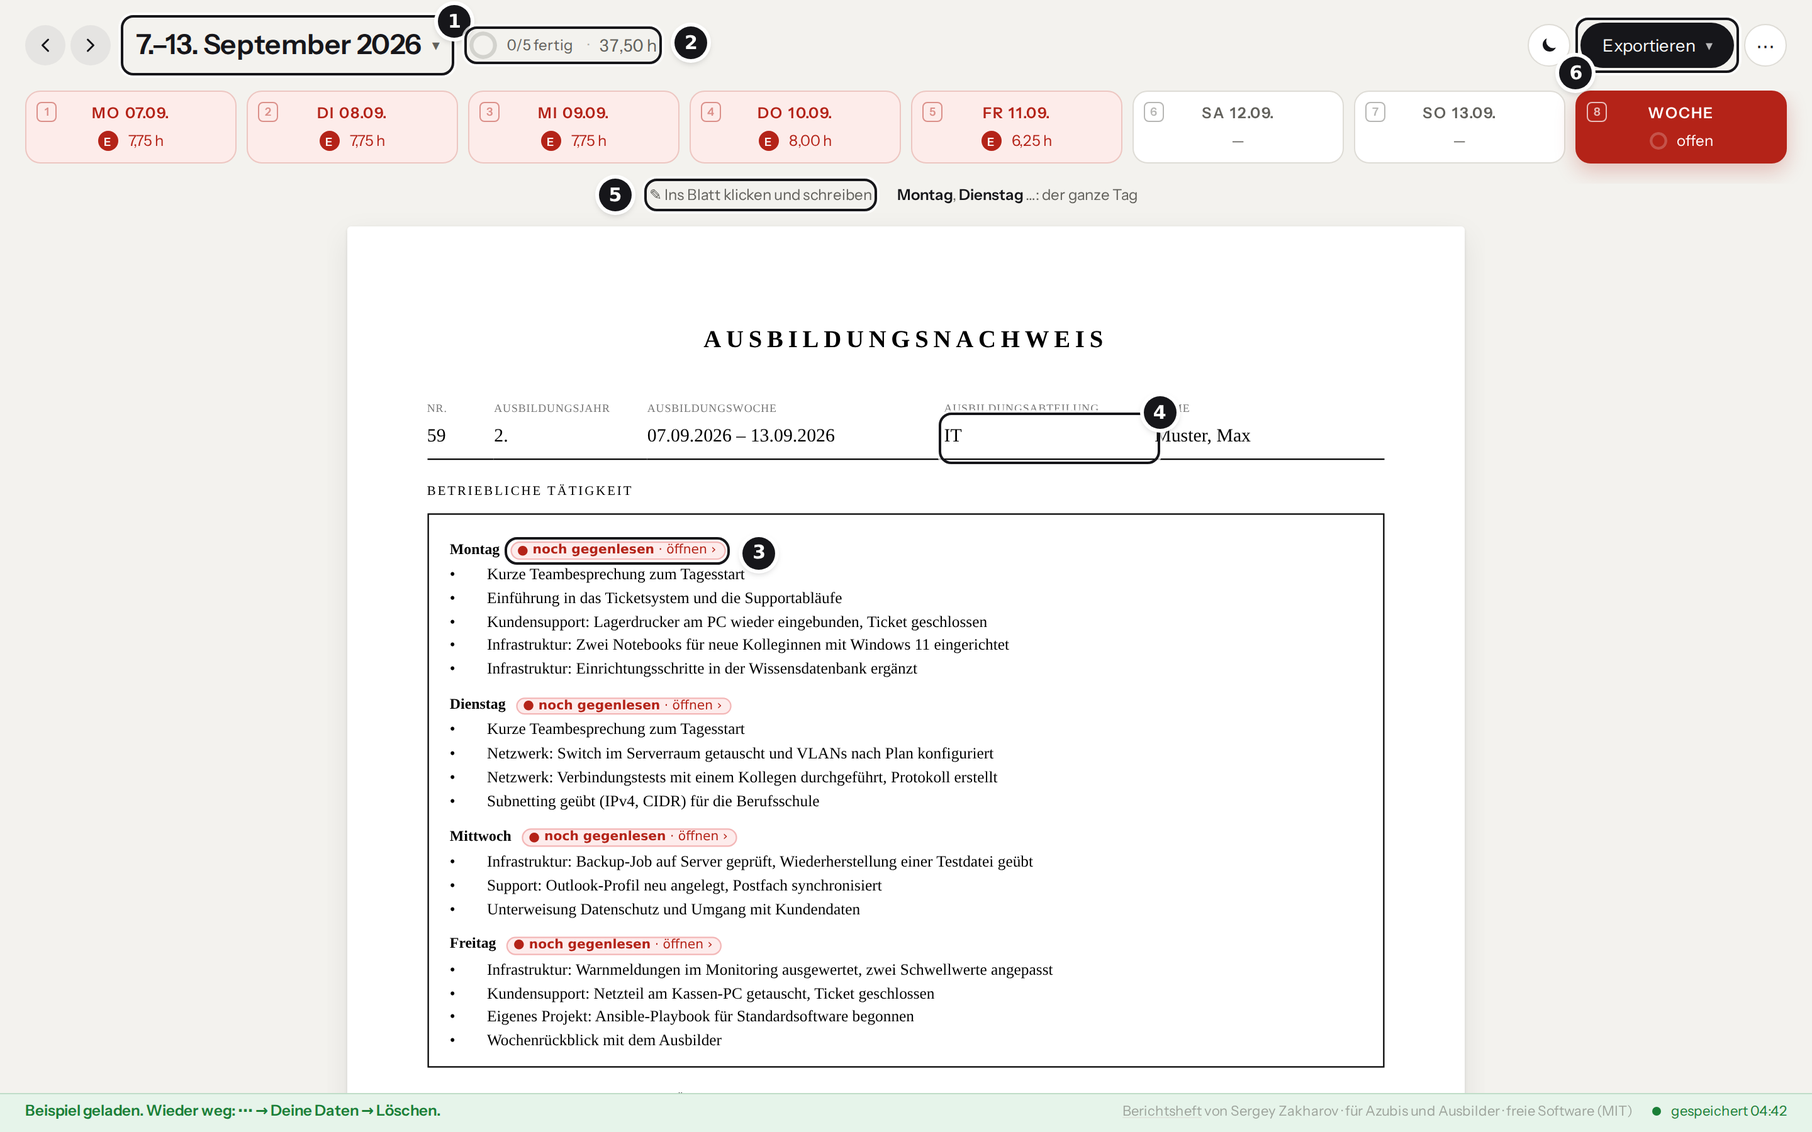
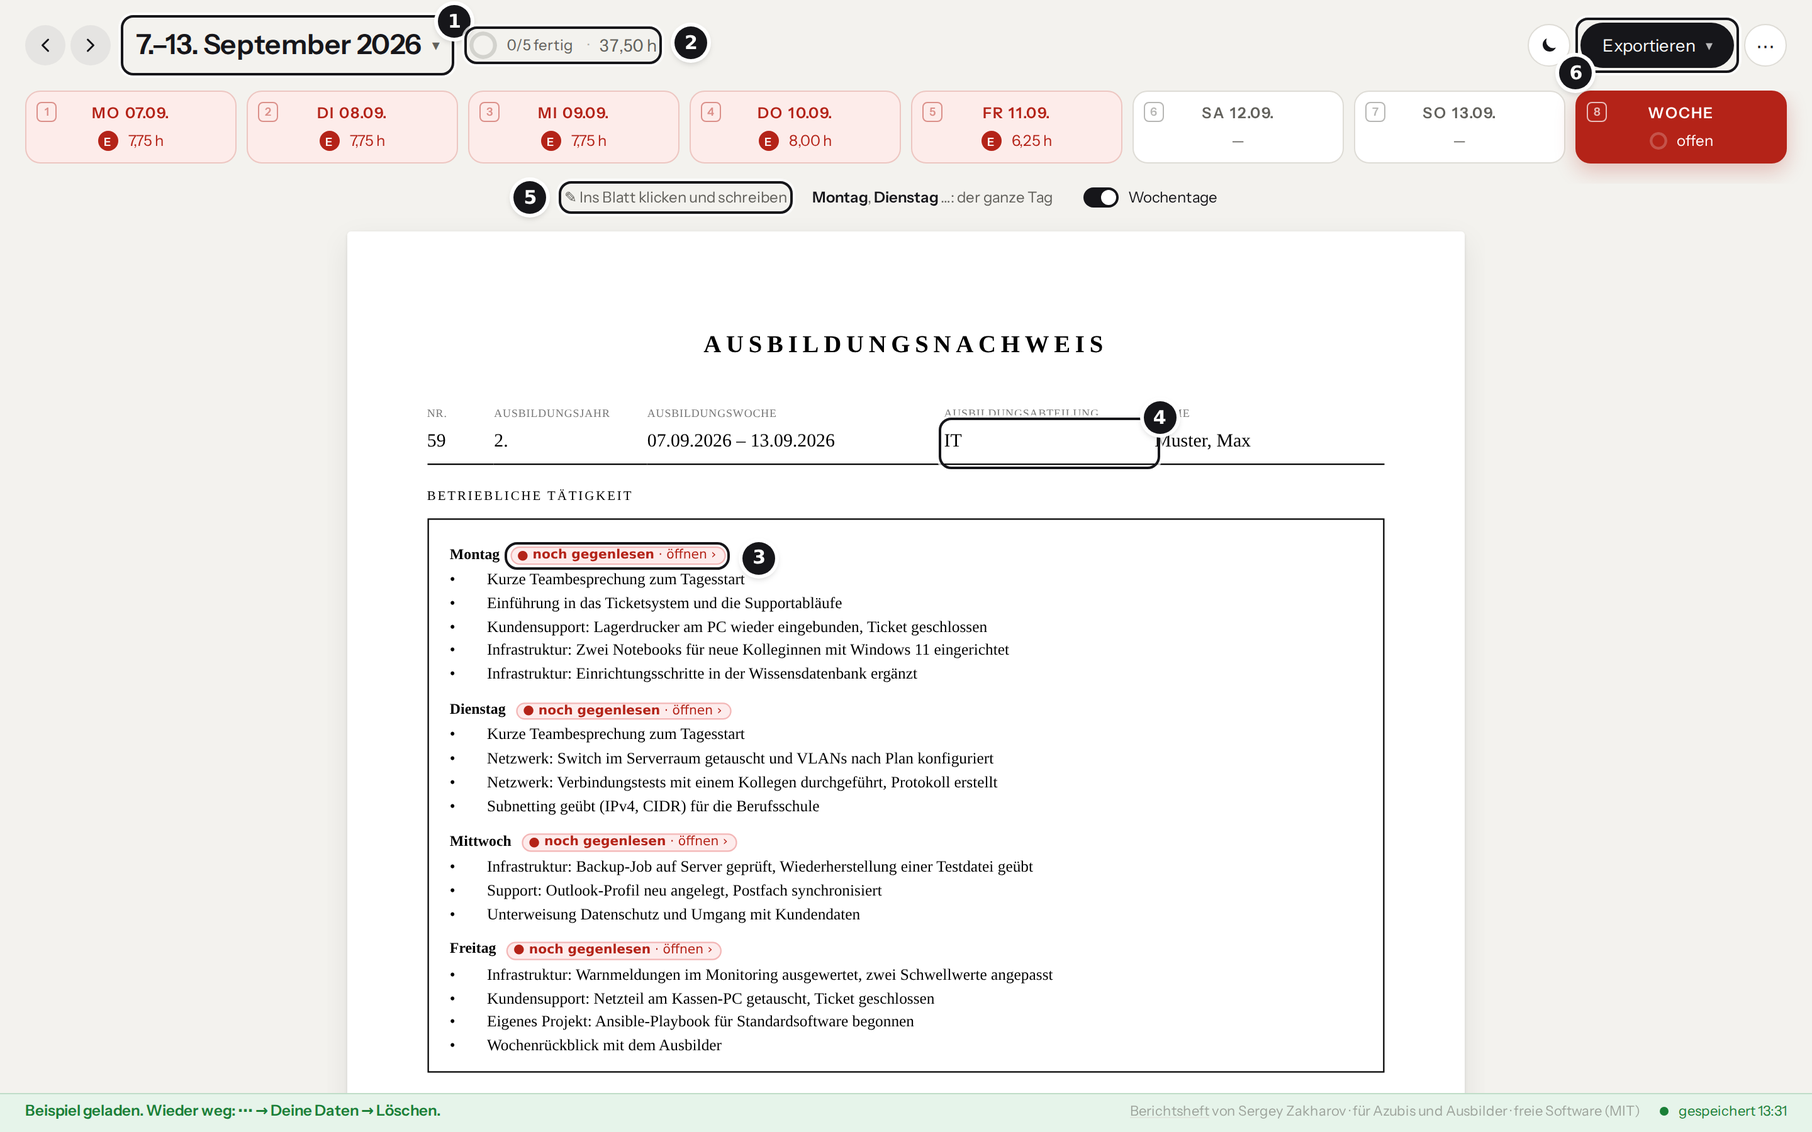
Woche: Schalter „Wochentage“ am Blatt statt dritter Vordruck
Ohne Wochentage stand als dritter Eintrag in der Auswahl des Vordrucks unter „Deine Daten“,
neben „Täglich“, einem ganz anderen IHK-Vordruck, und wurde verwechselt. Jetzt sitzt ein Schalter
„Wochentage“ über dem Blatt im Reiter „Woche“, wo man die Wirkung sieht; die Auswahl hat wieder
nur wöchentlich und täglich. Gespeichert in stamm.ohneTage ("ja"). Ein Stand mit
vordruck "ohnetage" wird beim Laden wöchentlich mit ausgeschaltetem Schalter. Beim täglichen
Vordruck gibt es keinen Schalter.

diff --git a/test/ohnetage.js b/test/ohnetage.js
@@ -1,7 +1,8 @@
 #!/usr/bin/env node
 /**
- * Vordruck „wöchentlich, nur die Tätigkeiten“: dasselbe Wochenblatt ohne Überschrift je Tag, wie
- * es manche Ausbilder wollen (ohneTage() in src/js/ausgabe/word.js).
+ * Wochenblatt ohne Wochentage: dasselbe Blatt ohne Überschrift je Tag, nur die Tätigkeiten
+ * untereinander, wie es manche Ausbilder wollen (ohneTage() in src/js/ausgabe/word.js). Geschaltet
+ * über dem Blatt im Reiter „Woche“; die Auswahl des Vordrucks bleibt bei wöchentlich und täglich.
  *
  * Gleiche Zeilen stehen nur einmal, freie Tage als eine Zeile am Ende, die Berufsschule ohne
  * Wochentag. Geschrieben wird weiter je Tag, auch im Blatt. Geprüft am Beispiel, Mittwoch als
@@ -11,7 +12,7 @@
  */
 const h = require('./hilfen');
 
-const { pruefe, abschluss } = h.protokoll('Vordruck ohne Wochentage: nur die Tätigkeiten der Woche');
+const { pruefe, abschluss } = h.protokoll('Wochenblatt ohne Wochentage: nur die Tätigkeiten der Woche');
 
 const TAGE = /Montag|Dienstag|Donnerstag|Freitag/;
 
@@ -41,13 +42,18 @@ const TAGE = /Montag|Dienstag|Donnerstag|Freitag/;
   const vorher = await blatt();
   pruefe('Vorgabe: Wochentage als Überschrift', vorher.koepfe >= 4 && vorher.betrieb.some((p) => p.text.startsWith('Montag')),
     vorher.koepfe + ' Köpfe');
-  await h.stammdatenOeffnen(page);
-  await h.stammReiter(page, '#f-vordruck');
-  pruefe('„Deine Daten“ bietet die Wahl ohne Wochentage an',
-    (await page.locator('#f-vordruck option[value="ohnetage"]').textContent()).includes('ohne Wochentage'));
-  await page.selectOption('#f-vordruck', 'ohnetage');
-  await page.click('#dlg-fertig');
+  const optionen = await page.$$eval('#f-vordruck option', (o) => o.map((x) => x.value));
+  pruefe('Der Vordruck bleibt wöchentlich oder täglich, ohne dritte Wahl', JSON.stringify(optionen) === '["","taeglich"]',
+    JSON.stringify(optionen));
+  const schalter = page.locator('.tageschalter');
+  pruefe('Über dem Blatt steht der Schalter „Wochentage“, an',
+    (await schalter.isVisible()) && (await schalter.textContent()).includes('Wochentage') &&
+      (await schalter.getAttribute('role')) === 'switch' && (await schalter.getAttribute('aria-checked')) === 'true');
+  await schalter.click();
   await page.waitForTimeout(900);
+  pruefe('Ein Klick schaltet ihn aus und merkt es sich',
+    (await page.getAttribute('.tageschalter', 'aria-checked')) === 'false' &&
+      (await page.evaluate((k) => { window.__merkenJetzt(); return JSON.parse(localStorage.getItem(k)).stamm.ohneTage; }, h.SPEICHER)) === 'ja');
 
   const b = await blatt();
   const texte = b.betrieb.map((p) => p.text);
@@ -125,15 +131,39 @@ const TAGE = /Montag|Dienstag|Donnerstag|Freitag/;
   await page.waitForTimeout(900);
   await zurWoche();
   await page.waitForTimeout(900);
-  pruefe('Nach dem Neuladen bleibt die Wahl', (await blatt()).koepfe === 0);
-  await h.stammdatenOeffnen(page);
-  await h.stammReiter(page, '#f-vordruck');
-  await page.selectOption('#f-vordruck', '');
-  await page.click('#dlg-fertig');
+  pruefe('Nach dem Neuladen bleibt die Wahl', (await blatt()).koepfe === 0 &&
+    (await page.getAttribute('.tageschalter', 'aria-checked')) === 'false');
+  await page.click('.tageschalter');
   await page.waitForTimeout(900);
   const zurueck = await blatt();
-  pruefe('Zurück: wieder mit Wochentagen', zurueck.koepfe >= 3 && zurueck.betrieb.some((p) => p.text.startsWith('Montag')),
-    zurueck.koepfe + ' Köpfe');
+  pruefe('Wieder an: wieder mit Wochentagen', zurueck.koepfe >= 3 && zurueck.betrieb.some((p) => p.text.startsWith('Montag')) &&
+    (await page.getAttribute('.tageschalter', 'aria-checked')) === 'true', zurueck.koepfe + ' Köpfe');
+
+  // Für kurze Zeit stand „ohne Wochentage“ als dritter Vordruck in der Auswahl. Wer es so
+  // gespeichert hat, behält es: als wöchentlichen Vordruck mit ausgeschaltetem Schalter.
+  await page.evaluate((k) => {
+    window.__merkenJetzt();
+    const st = JSON.parse(localStorage.getItem(k));
+    st.stamm.vordruck = 'ohnetage'; st.stamm.ohneTage = '';
+    localStorage.setItem(k, JSON.stringify(st));
+  }, h.SPEICHER);
+  await page.reload();
+  await page.waitForTimeout(900);
+  await zurWoche();
+  await page.waitForTimeout(900);
+  pruefe('Ein alter Stand mit „ohnetage“ wird wöchentlich ohne Wochentage',
+    (await page.inputValue('#f-vordruck')) === '' && (await blatt()).koepfe === 0 &&
+      (await page.getAttribute('.tageschalter', 'aria-checked')) === 'false');
+
+  // Beim täglichen Vordruck gibt es keine Wochentage zum Weglassen, also auch keinen Schalter.
+  await h.stammdatenOeffnen(page);
+  await h.stammReiter(page, '#f-vordruck');
+  await page.selectOption('#f-vordruck', 'taeglich');
+  await page.click('#dlg-fertig');
+  await page.waitForTimeout(900);
+  pruefe('Täglicher Vordruck: kein Schalter, das Tagesblatt wie immer',
+    !(await page.locator('.tageschalter').count()) &&
+      (await page.evaluate(() => !!document.querySelector('.vorschaubuehne .tagestabelle'))));
 
   pruefe('Keine JavaScript-Fehler', jsFehler.length === 0, jsFehler.join(' | '));
   await browser.close();

diff --git a/src/css/tag.css b/src/css/tag.css
@@ -230,6 +230,26 @@ body.ohnewoche .leerbild { margin: var(--luft-2) var(--luft-5); }
 .blattfehlt::before { content: "● "; }
 .blattfehlt:hover { background: var(--acht); border-color: var(--acht); color: #fff; }
 .blattzeile .textfuss { padding: 0; border: 0; gap: var(--luft-3); }
+/* Wochentage im Blatt an oder aus (tageSchalterBauen()): ein kleiner Schalter, an = dunkel. */
+.tageschalter {
+  display: inline-flex; align-items: center; gap: var(--luft-2); padding: 2px var(--luft-1);
+  border: 0; border-radius: var(--rund-klein); background: none; cursor: pointer;
+  font: inherit; font-size: var(--schrift-klein); color: var(--schiefer);
+}
+.tageschalter .knips {
+  position: relative; flex: none; width: 28px; height: 16px; border-radius: var(--rund-voll);
+  background: var(--linie-fest); transition: background-color .15s;
+}
+.tageschalter .knips::after {
+  content: ""; position: absolute; top: 2px; left: 2px; width: 12px; height: 12px; border-radius: 50%;
+  background: var(--auf-farbe); box-shadow: 0 1px 2px rgba(0, 0, 0, .2); transition: transform .15s;
+}
+/* Aus: weißer Knopf, auch im Dunkeln, sonst verschwand er auf der dunklen Bahn. */
+.tageschalter[aria-checked="true"] { color: var(--text); }
+.tageschalter[aria-checked="true"] .knips { background: var(--text); }
+.tageschalter[aria-checked="true"] .knips::after { transform: translateX(12px); background: var(--flaeche); }
+@media (hover: hover) { .tageschalter:hover { color: var(--text); } }
+@media (prefers-reduced-motion: reduce) { .tageschalter .knips, .tageschalter .knips::after { transition: none; } }
 .blattzeile .textstand { margin-left: 0; }
 
 /* Die Felder im Blatt, ohne Rahmen: Das Blatt sieht aus wie gedruckt. Ein gelber Rahmen mit

diff --git a/src/js/ansicht/wochenblatt.js b/src/js/ansicht/wochenblatt.js
@@ -146,6 +146,7 @@ function blattVorschau(imBlatt) {
     fehlt.hidden = true;
     leiste.appendChild(schreiben);
     leiste.appendChild(tagHinweis);
+    leiste.appendChild(tageSchalterBauen());
     leiste.appendChild(fehlt);
     leiste.appendChild(fuss);
     s.leib.appendChild(leiste);
@@ -153,6 +154,31 @@ function blattVorschau(imBlatt) {
   } else {
     s.leib.appendChild(buehne);
     s.leib.appendChild(fuss);
+  }
+
+  /**
+   * Wochentage ins Blatt oder nicht: Manche Ausbilder wollen nur die Tätigkeiten der Woche
+   * untereinander sehen (ohneTage()). Der Schalter sitzt am Blatt, wo man die Wirkung sieht; als
+   * dritter Eintrag in der Auswahl des Vordrucks unter „Deine Daten“ stand er neben „Täglich“,
+   * einem ganz anderen Vordruck, und wurde verwechselt. Gespeichert in f-ohne-tage.
+   */
+  function tageSchalterBauen() {
+    var k = document.createElement("button");
+    k.type = "button";
+    k.className = "tageschalter";
+    k.setAttribute("role", "switch");
+    k.innerHTML = '<span class="knips" aria-hidden="true"></span>Wochentage';
+    var an = $("f-ohne-tage").value !== "ja";
+    k.setAttribute("aria-checked", String(an));
+    k.title = an ? "Wochentage weglassen: nur die Tätigkeiten untereinander" : "Wochentage wieder über die Tätigkeiten setzen";
+    k.addEventListener("click", function () {
+      $("f-ohne-tage").value = an ? "ja" : "";
+      merken();
+      zeichneTag();
+      var neu = document.querySelector(".tageschalter");
+      if (neu) neu.focus();
+    });
+    return k;
   }
 
   var felder = [], tagFeld = {}, fehltAm = null;

diff --git a/src/index.html b/src/index.html
@@ -246,11 +246,12 @@
     <div class="dlg-blatt" data-blatt="verarbeitung" hidden>
       <div class="felder">
         <label class="weit"><span>Vordruck</span><select id="f-vordruck">
-          <option value="">Wöchentlich – ein Feld je Woche, mit Wochentagen</option>
-          <option value="ohnetage">Wöchentlich – nur die Tätigkeiten, ohne Wochentage</option>
+          <option value="">Wöchentlich – ein Feld je Woche</option>
           <option value="taeglich">Täglich – eine Zeile je Tag</option>
         </select>
         </label>
+        <!-- "ja": Wochenblatt ohne Wochentage. Geschaltet über dem Blatt im Reiter „Woche“ (tageSchalter). -->
+        <input id="f-ohne-tage" type="hidden">
         <p class="zwischentitel weit">Beim Laden der Zeiterfassung</p>
         <label class="weit"><span>Nicht ins Heft übernehmen</span>
           <input id="f-ausblenden" type="text" placeholder="Allgemein, Daily, Orga"></label>

diff --git a/src/js/ausgabe/word.js b/src/js/ausgabe/word.js
@@ -336,8 +336,8 @@ function wochenSeite(nummer, montag, s) {
 /* ---------- Tägliche Notierung ---------- */
 
 function taeglich(s) { return !!s && s.vordruck === "taeglich"; }
-/** Wöchentlich, aber nur die Tätigkeiten, ohne Überschrift je Tag (ohneTage()). */
-function ohneWochentage(s) { return !!s && s.vordruck === "ohnetage"; }
+/** Wöchentlich, aber nur die Tätigkeiten, ohne Überschrift je Tag (ohneTage(), Schalter über dem Blatt). */
+function ohneWochentage(s) { return !!s && !taeglich(s) && (s.ohneTage === "ja" || s.vordruck === "ohnetage"); }
 
 /** Untertitel des Deckblatts, je nach Vordruck. */
 function notierungTitel(s) {

diff --git a/src/js/kern/start.js b/src/js/kern/start.js
@@ -81,6 +81,8 @@ if (alt && alt.stamm) {
     // soll nach dem Neuladen nicht wieder die Vorgabe sehen.
     if (feld && typeof alt.stamm[k] === "string") feld.value = alt.stamm[k];
   });
+  // Ohne Wochentage stand für kurze Zeit als dritter Vordruck in der Auswahl.
+  if (alt.stamm.vordruck === "ohnetage") { $("f-vordruck").value = ""; $("f-ohne-tage").value = "ja"; }
   // Bis Version 1.2 stand die Vertragslaufzeit als Freitext in `zeitraum`.
   if (!$("f-ende").value && alt.stamm.zeitraum) {
     var alteDaten = String(alt.stamm.zeitraum)

diff --git a/src/js/kern/zustand.js b/src/js/kern/zustand.js
@@ -411,6 +411,7 @@ function stammdaten() {
     ausbilder: $("f-ausbilder").value, schule: $("f-schule").value,
     schultage: $("f-schultage").value, schulbloecke: $("f-schulbloecke").value,
     schulferien: $("f-schulferien").value, vordruck: $("f-vordruck").value,
+    ohneTage: $("f-ohne-tage").value,
     beginn: $("f-beginn").value, ende: $("f-ende").value,
     jahr: ausbildungsjahr({ beginn: $("f-beginn").value }, berichtsdatum()),
     geburtsort: $("f-geburtsort").value, geburtsdatum: $("f-geburtsdatum").value,

diff --git a/docs/ENTWICKLUNG.md b/docs/ENTWICKLUNG.md
@@ -157,8 +157,8 @@ pt und mm des Vordrucks und bleibt davon ausgenommen.
 ```text
 stamm   Stammdaten und Einstellungen; Schlüssel = Feld-ID ohne "f-"
         (kiAdresse ↔ f-ki-adresse); schultage "Di, Mi", schulbloecke und
-        schulferien als Text; vordruck "" (wöchentlich), "ohnetage" (wöchentlich ohne
-        Wochentage) oder "taeglich"
+        schulferien als Text; vordruck "" (wöchentlich) oder "taeglich"; ohneTage "ja":
+        Wochenblatt ohne Wochentage (Schalter über dem Blatt)
 tage    "JJJJ-MM-TT" → {
           text        was im Feld steht
           art         "", Berufsschule, Urlaub, Krank, Feiertag, Betriebsversammlung
@@ -752,8 +752,13 @@ Stammdaten des Azubis mitbringt. Im Druck teilt `druckAufteilen()` eine volle Wo
 wie beim wöchentlichen Blatt; in Word wiederholt sich die Kopfzeile der Tabelle auf jeder Seite.
 Das Deckblatt nennt den Vordruck (`notierungTitel()`).
 
-**Ohne Wochentage:** `stamm.vordruck = "ohnetage"` ist das wöchentliche Blatt ohne Überschrift je
-Tag, für Ausbilder, die nur die Tätigkeiten der Woche sehen wollen. `wochenTexte(montag, s)` gibt
+**Ohne Wochentage:** `stamm.ohneTage = "ja"` (verstecktes Feld `f-ohne-tage`) ist das wöchentliche
+Blatt ohne Überschrift je Tag, für Ausbilder, die nur die Tätigkeiten der Woche sehen wollen.
+Geschaltet wird über dem Blatt im Reiter „Woche“ (Schalter „Wochentage“, `tageSchalterBauen()` in
+`wochenblatt.js`), dort, wo man die Wirkung sieht. Für kurze Zeit war es ein dritter Eintrag in der
+Auswahl des Vordrucks (`vordruck = "ohnetage"`); dort stand es neben „Täglich“, einem ganz anderen
+Vordruck, und wurde verwechselt. Ein so gespeicherter Stand wird beim Laden wöchentlich mit
+ausgeschaltetem Schalter (`start.js`); `ohneWochentage()` versteht beide. `wochenTexte(montag, s)` gibt
 dann die Einträge aus `ohneTage()` zurück: jede Zeile nur einmal (`schluessel()`, die
 Teambesprechung an jedem Morgen stünde sonst fünfmal da), freie Tage als eine Zeile am Ende
 („Urlaub am Mittwoch und Donnerstag“, `frei`, im Blatt `.sp.frei` ohne Datum), die Berufsschule
@@ -761,8 +766,8 @@ ohne Wochentag. Die Zeilen behalten ihr Datum (`data-datum`), damit man im Reite
 je Tag ins Blatt schreibt: `feldOrt()` legt das Feld eines Tages über seine Zeilen, eine Zeile, die
 schon an einem früheren Tag steht, fehlt dort. Als „ohne Text“ über dem Blatt steht nur ein Tag
 ohne Text (`fehltZeigen()`). Word nimmt dieselben Einträge, ohne Abstand zwischen den Tagen
-(`eintraege()`). Alle anderen Stellen prüfen nur auf `"taeglich"` und behandeln den Wert wie das
-wöchentliche Blatt; ältere Stände kennen ihn nicht und bleiben unverändert.
+(`eintraege()`). Beim täglichen Vordruck gibt es keinen Schalter und keine Wirkung. Ältere
+Stände ohne das Feld haben die Wochentage, wie bisher.
 
 **Kontrolle vor dem Export:** Tage mit nicht übernommenem Text oder mehr als
 Stichpunkten je Tag werden aufgelistet, ebenso nicht übernommene Themen einer Blockwoche und ein fehlendes
@@ -786,7 +791,7 @@ npm test
 | `test/sicherung.js` | Sicherung speichern, in einem leeren Browser und in Firefox laden, Rückfrage beim Ersetzen, fremde Datei, Stempel aus älteren Sicherungen |
 | `test/schulplan.js` | Feste Schultage, Blockunterricht und Schulferien: welche Tage der Plan trifft (Feiertag, Wochenende, Vertragslaufzeit, Tage mit Buchungen, Ferien), Kalender für Zeiträume (auch am Handy), Marken, Zusammenlegen, Unlesbares aus alten Ständen, Speichern erst beim Schreiben, „Arbeitstag“ von Hand übersteht Neuladen und Import, Beispiel |
 | `test/vordruck.js` | Tägliche Notierung: Umschalten unter „Deine Daten“, neben der Vorschau kein zweiter Schalter und keine Knöpfe, Zeilen je Tag ohne Stunden, Unterweisungen, Word, Gesamtheft, Druck, Aufteilen einer vollen Woche, Wahl übersteht Neuladen |
-| `test/ohnetage.js` | Wochenblatt ohne Wochentage: Wahl unter „Deine Daten“, keine Tagesköpfe, gleiche Zeilen einmal, Reihenfolge der Tage, Urlaub als Zeile am Ende, Berufsschule ohne Wochentag, Felder je Tag im Blatt und darin schreiben, kein falsches „ohne Text“, Word, Druck, volle Woche auf mehreren Blättern, Neuladen, zurück |
+| `test/ohnetage.js` | Wochenblatt ohne Wochentage: Auswahl des Vordrucks nur wöchentlich und täglich, Schalter „Wochentage“ über dem Blatt und gemerkt, keine Tagesköpfe, gleiche Zeilen einmal, Reihenfolge der Tage, Urlaub als Zeile am Ende, Berufsschule ohne Wochentag, Felder je Tag im Blatt und darin schreiben, kein falsches „ohne Text“, Word, Druck, volle Woche auf mehreren Blättern, Neuladen, wieder an, alter Stand mit „ohnetage“, kein Schalter beim täglichen Vordruck |
 | `test/blockwoche.js` | Blockwoche erkennen (Feiertag darin, ein einzelner Schultag, eigener Tagestext, Arbeitstag von Hand, tägliche Notierung), die Tage als Menü hinter dem Reiter, Themen schreiben und mit „Fertig“ am Feld übernehmen, übernommen im Blatt weiter beschreibbar, Stand 5/5, Wochenblatt und tägliches Blatt, Neuladen; nichts über dem Schreibfeld; „Fertig“ springt nur nach vorn weiter, „Zurück“, sonst Knopf zum frühesten offenen Tag; am Handy die Themen im Blatt, groß zum Schreiben, Escape schließt ohne, „Fertig“ mit Übernahme |
 | `test/hinweise.js` | Hinweise beim Öffnen (was fehlt, Sicherung fällig, iPhone, am Handy kurz, „Wie?“ zeigt alles), Übersicht mit Tagen je Art und Ausbildungsjahr, Buchung übernehmen, Start ohne Woche, Legende, dunkler Modus vom Gerät und per Knopf (gleiche Farben), am Handy schwebende Meldung (geht nach vier Sekunden, Warnung bleibt, Tippen und Wischen schließen) und kurzer Titel; Reiter „Woche“ am Rechner: Felder auf ihren Kästen im Blatt, keine Leiste darüber, Marke am offenen Tag, ins Blatt schreiben, jeder Tag ein Feld über seinen Zeilen, darin schreiben und „Fertig“, Tageskopf öffnet den Tag, Tag ohne Text über dem Blatt öffnet sich groß, schmales Fenster bleibt Blatt, Blatt scrollt bis unter die Reiter; am Handy öffnet ein Tag im Blatt sich groß von unten, daneben tippen schließt nur, „Fertig“ übernimmt |
 | `test/herkunft.js` | Zuordnung (Zeile zur Buchung, Wort aus zwei Buchungen, Füllwörter, eigene Zeilen, Endungen, Rechnernamen, zusammengefasste Zeile, Farben bei vielen Buchungen), Spiegel deckungsgleich, gleich umbrochen und mitscrollend, Plus färbt, Zeigen und Cursor, Schalter übersteht Neuladen, fertiger Tag, nichts im Blatt, am Rechner kein Einklappen, Handy und dunkel |

diff --git a/docs/START.md b/docs/START.md
@@ -145,9 +145,9 @@ Im Startbild: **1** Zeiterfassung laden (Schritt 4), **2** selbst schreiben, ohn
 - **Der Vordruck** folgt dem verbreiteten IHK-Muster „Ausbildungsnachweis – wöchentliche
   Notierung“, wahlweise der täglichen Notierung. Frag bei deiner IHK nach, welchen sie verlangt.
 - **Ohne Wochentage:** Will dein Ausbilder nur die Tätigkeiten der Woche sehen, ohne „Montag“,
-  „Dienstag“ davor, stell unter **Deine Daten → Vordruck** „Wöchentlich – nur die Tätigkeiten“
-  ein. Du schreibst weiter je Tag; im Blatt steht jede Zeile einmal, freie Tage als eine Zeile am
-  Ende („Urlaub am Mittwoch“). Zurückstellen geht jederzeit.
+  „Dienstag“ davor, schalte im Reiter **Woche** über dem Blatt **Wochentage** aus. Du schreibst
+  weiter je Tag; im Blatt steht jede Zeile einmal, freie Tage als eine Zeile am Ende („Urlaub am
+  Mittwoch“). Wieder einschalten geht jederzeit.
 - **Tastatur:** `1`–`7` wählt den Tag, `8` den Reiter **Woche** (die Ziffer steht klein in der Ecke
   jedes Reiters), `Alt` + `←` / `→` blättert eine Woche zurück oder vor, `Strg` + `S` speichert das
   Wochenblatt.

diff --git a/README.md b/README.md
@@ -64,8 +64,8 @@ einfach selbst.
   mit Schule schreibst du die Themen einmal für die ganze Woche. Bucht deine Zeiterfassung den
   Schultag mit den Fächern („AEUP: Datenbanken, FUIT: IPv4“), schlägt der Import ihn als
   Berufsschule vor, je Fach eine Zeile. Übernommen wird erst, was du bestätigst.
-- **Ausgabe** als Word oder PDF, im Vordruck mit wöchentlicher oder täglicher Notierung, wöchentlich
-  auf Wunsch ohne Wochentage, nur mit den Tätigkeiten. In der
+- **Ausgabe** als Word oder PDF, im Vordruck mit wöchentlicher oder täglicher Notierung; ein
+  Schalter über dem Wochenblatt lässt die Wochentage weg, dann stehen nur die Tätigkeiten da. In der
   Wochenansicht schreibst du in jedes Feld direkt ins Blatt, wie es gedruckt wird; am Handy öffnet
   ein Tipp das Feld groß.
 - **Übersicht aller Wochen** wie die Aktivität bei GitHub: jeder Werktag ein Feld, grün fertig,

diff --git a/CHANGELOG.md b/CHANGELOG.md
@@ -10,9 +10,9 @@ Werkzeug arbeitet. Was im Browser gespeichert ist, bleibt ladbar.
 
 ### Neu
 
-- **Wochenblatt ohne Wochentage:** Unter „Deine Daten → Vordruck“ gibt es „Wöchentlich – nur die
-  Tätigkeiten, ohne Wochentage“. Im Blatt, in Word und im PDF stehen dann keine Überschriften wie
-  „Montag“ mehr, nur die Stichpunkte der Woche. Gleiche Zeilen stehen einmal da, freie Tage als eine
+- **Wochenblatt ohne Wochentage:** Im Reiter „Woche“ steht über dem Blatt der Schalter
+  „Wochentage“. Ausgeschaltet stehen im Blatt, in Word und im PDF keine Überschriften wie „Montag“
+  mehr, nur die Stichpunkte der Woche. Gleiche Zeilen stehen einmal da, freie Tage als eine
   Zeile am Ende („Urlaub am Mittwoch“), die Berufsschule ohne Wochentag. Geschrieben wird weiter je
   Tag, auch direkt im Blatt.
 
